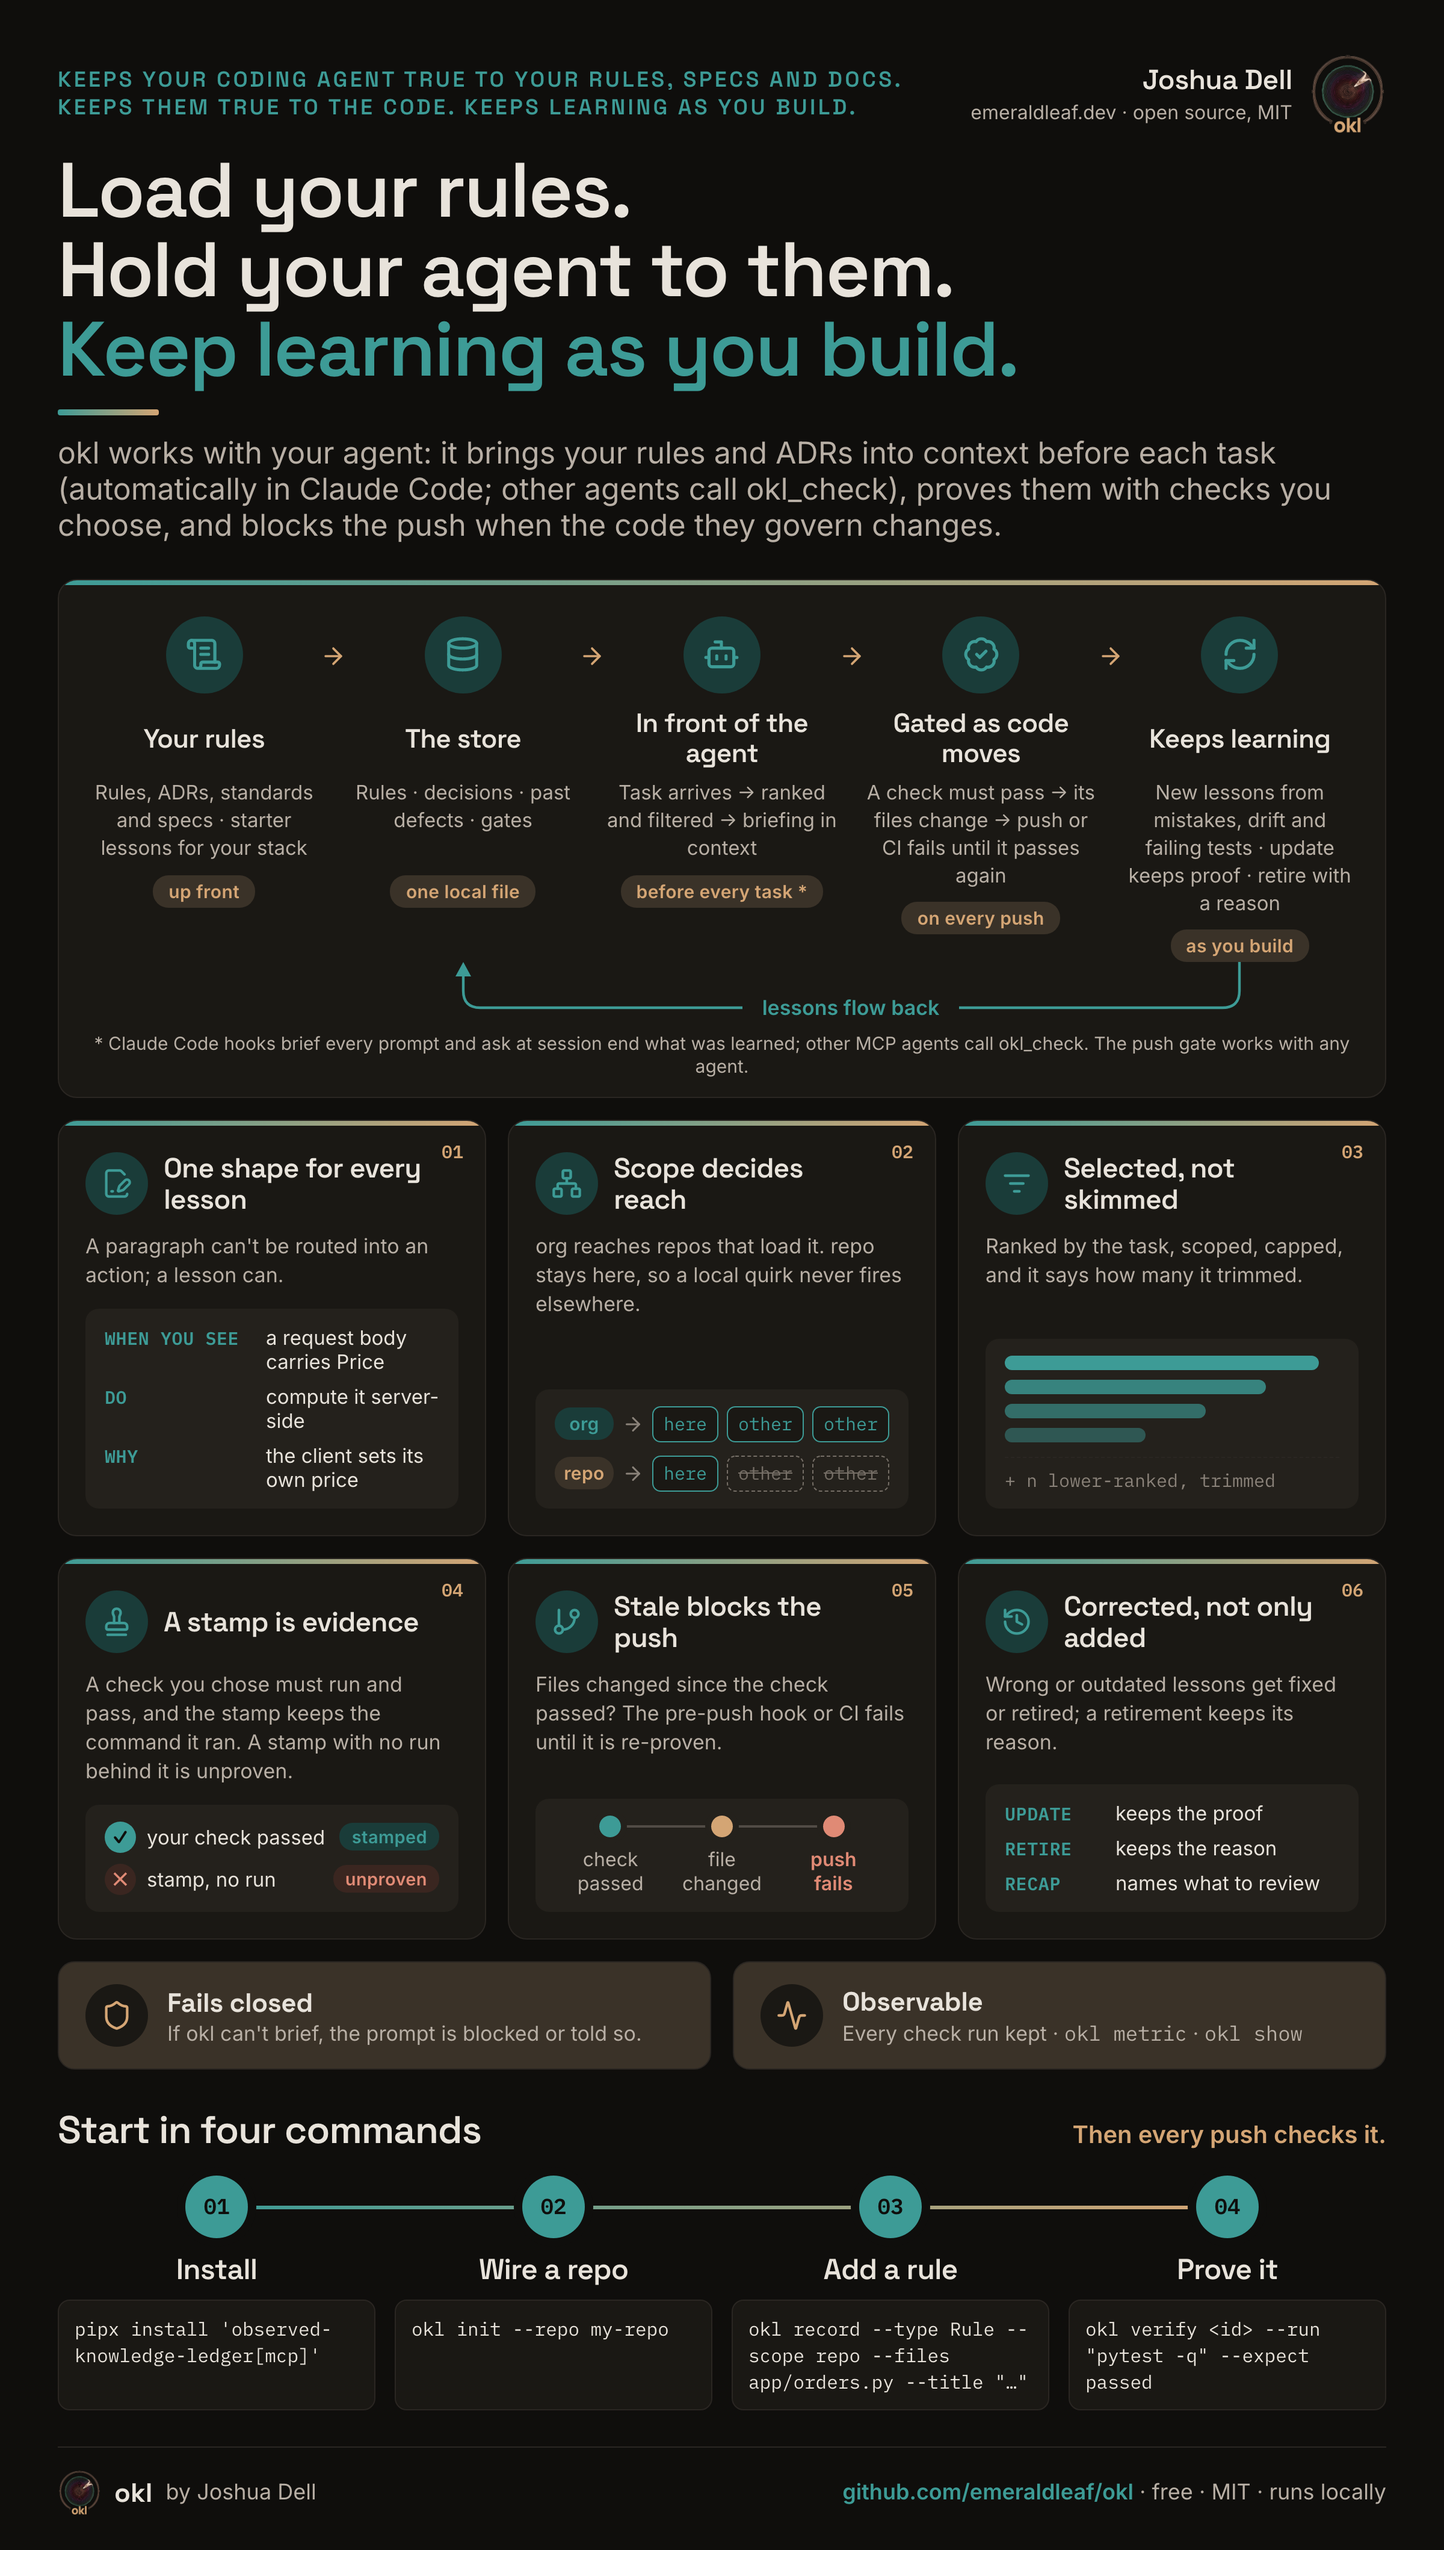
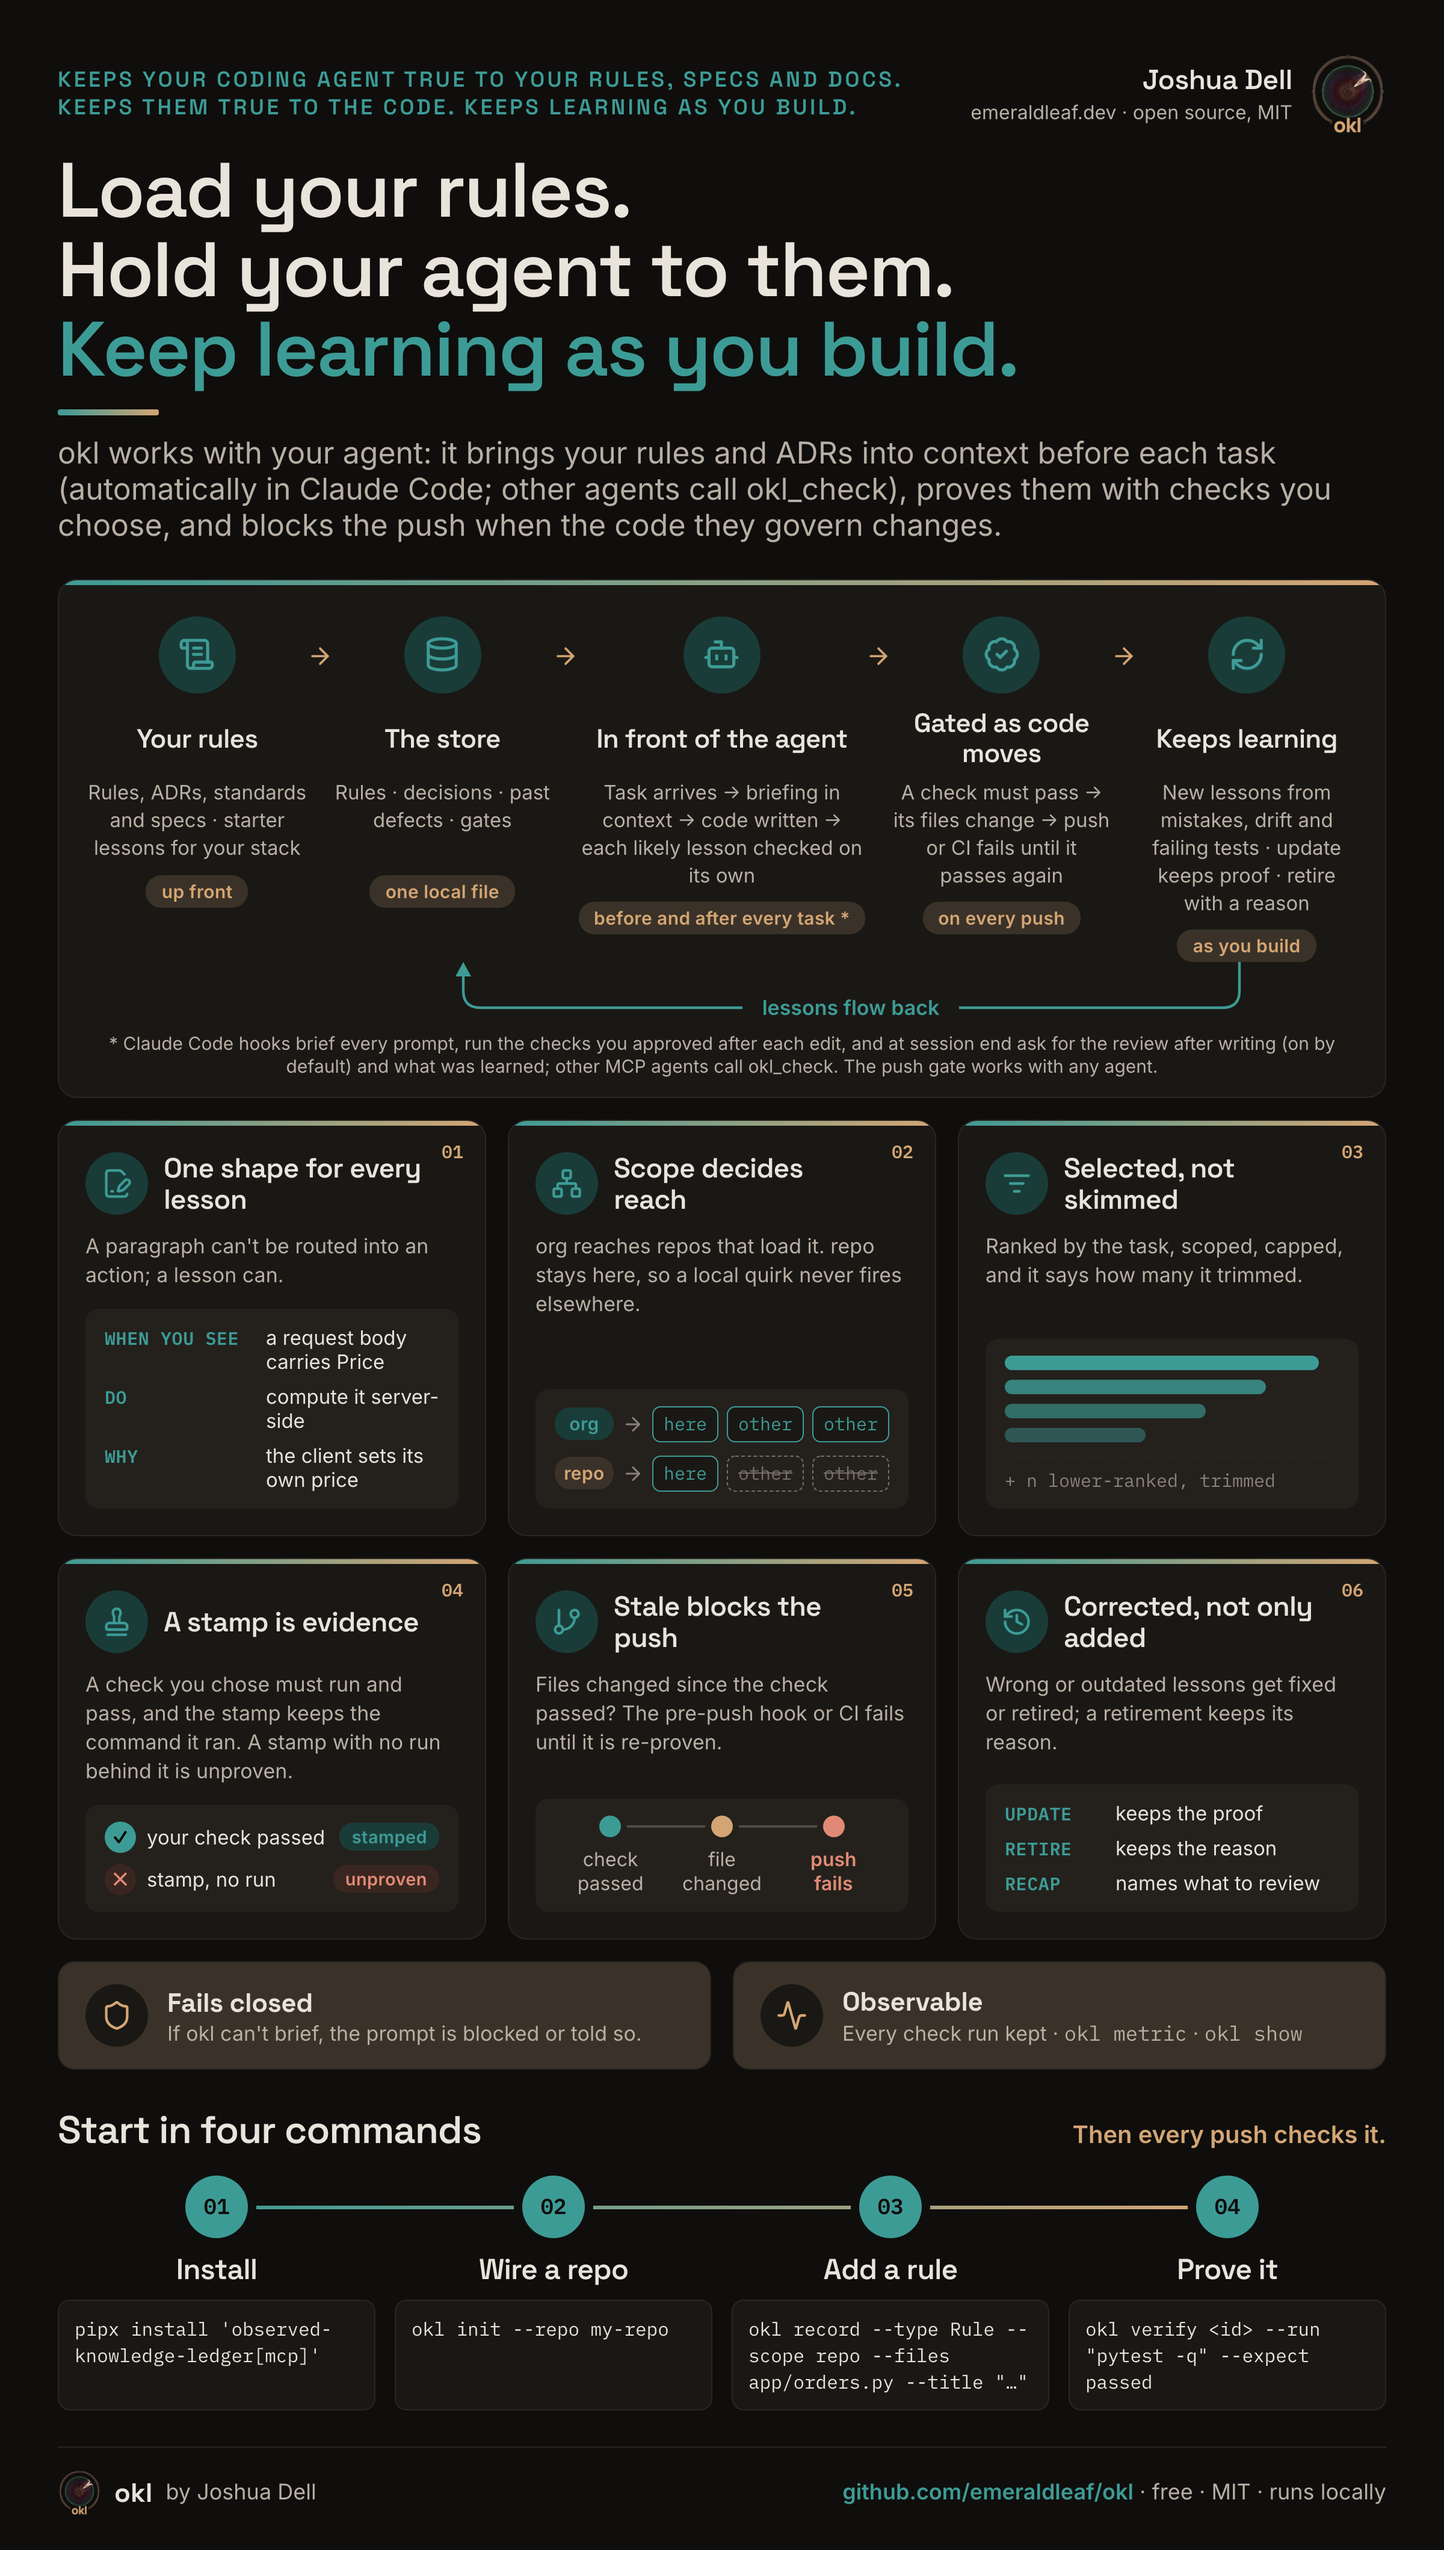
Overview: the review after writing and edit checks, which 0.17.0 turns on
The one-page overview's agent panel showed only the briefing before each
task. With the review on by default, that left out the step the evidence
says changes code. It was found by a person, not by okl: drift by omission,
filed as #455.

Thought: h6b9beb6d09f8

diff --git a/docs/overview/okl-overview.html b/docs/overview/okl-overview.html
@@ -213,8 +213,8 @@ h1::after { content: ''; position: absolute; left: 0; bottom: 0; width: 84px; he
       <div class="stage">
         <div class="badge"><svg class="ic"><use href="#i-bot"/></svg></div>
         <h3>In front of the agent</h3>
-        <div class="what">Task arrives → ranked and filtered → briefing in context</div>
-        <span class="chip">before every task *</span>
+        <div class="what">Task arrives → briefing in context → code written → each likely lesson checked on its own</div>
+        <span class="chip">before and after every task *</span>
       </div>
       <div class="arrow"><svg class="ic"><use href="#i-arrow"/></svg></div>
       <div class="stage">
@@ -237,7 +237,7 @@ h1::after { content: ''; position: absolute; left: 0; bottom: 0; width: 84px; he
       <rect x="544" y="26" width="180" height="24"/>
       <text x="634" y="44" text-anchor="middle">lessons flow back</text>
     </svg>
-    <p class="foot-note">* Claude Code hooks brief every prompt and ask at session end what was learned; other MCP agents call okl_check. The push gate works with any agent.</p>
+    <p class="foot-note">* Claude Code hooks brief every prompt, run the checks you approved after each edit, and at session end ask for the review after writing (on by default) and what was learned; other MCP agents call okl_check. The push gate works with any agent.</p>
   </section>
 
   <section class="panels">
